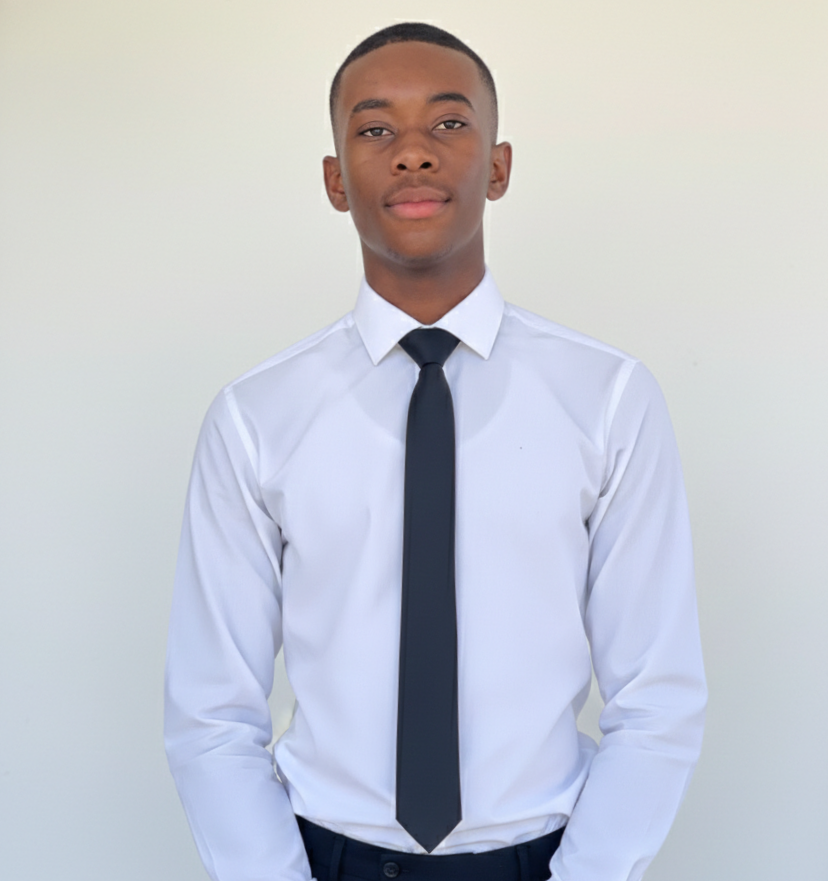
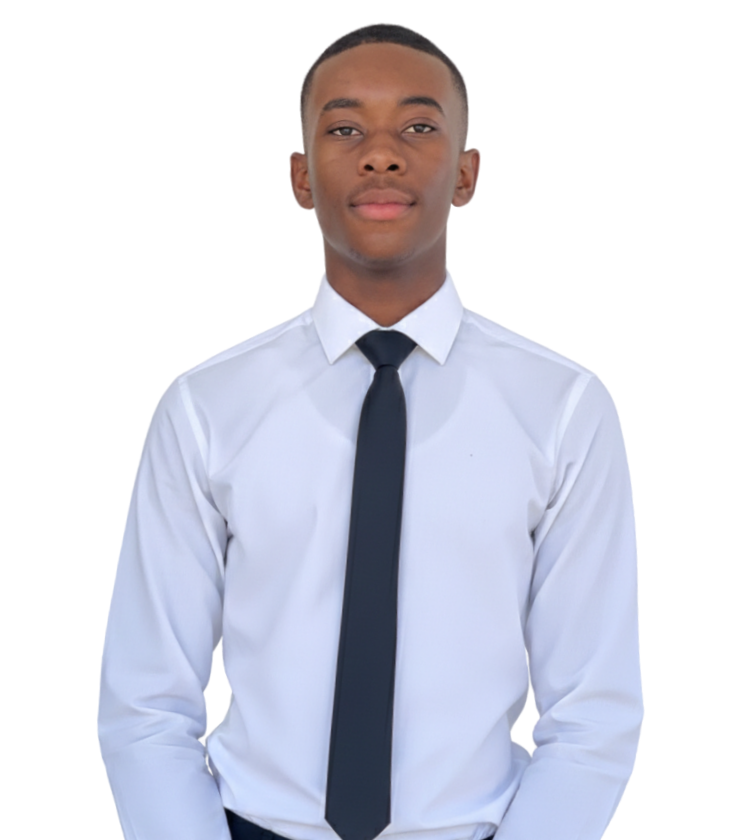
Update team images

diff --git a/data/site.ts b/data/site.ts
@@ -147,9 +147,9 @@ export const team: TeamMember[] = [
   {
     name: "Janairy Timane",
     role: "Directora Administrativa || Admnistrative Director",
-    image: "/assets/img/team/Janairy.jpeg",
+    image: "/assets/img/team/Janairy.png",
     linkedin:"https://www.linkedin.com/company/mktechmz/",
-    photoPosition: "center 35%"
+    photoPosition: "center 45%"
   },
   {
     name: "Cesarino Nhabangue",
